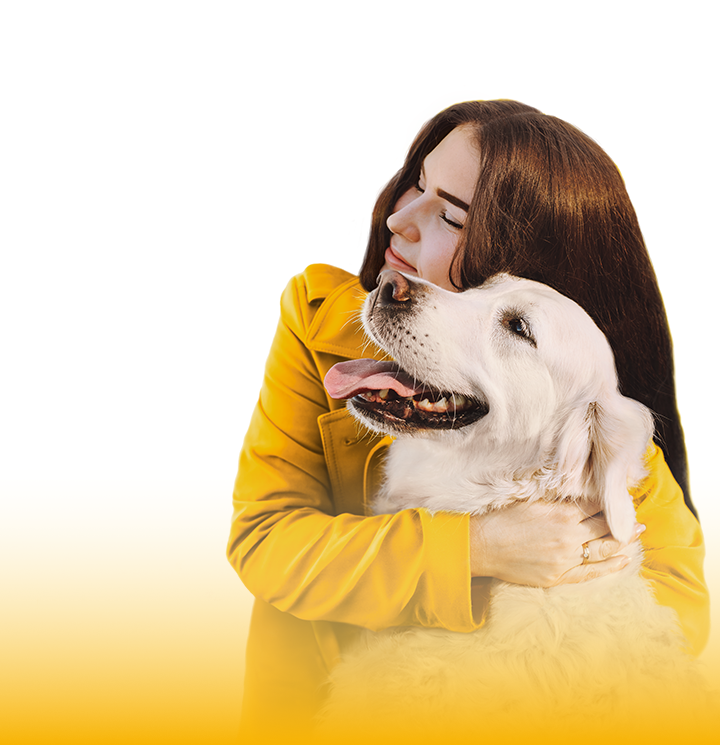
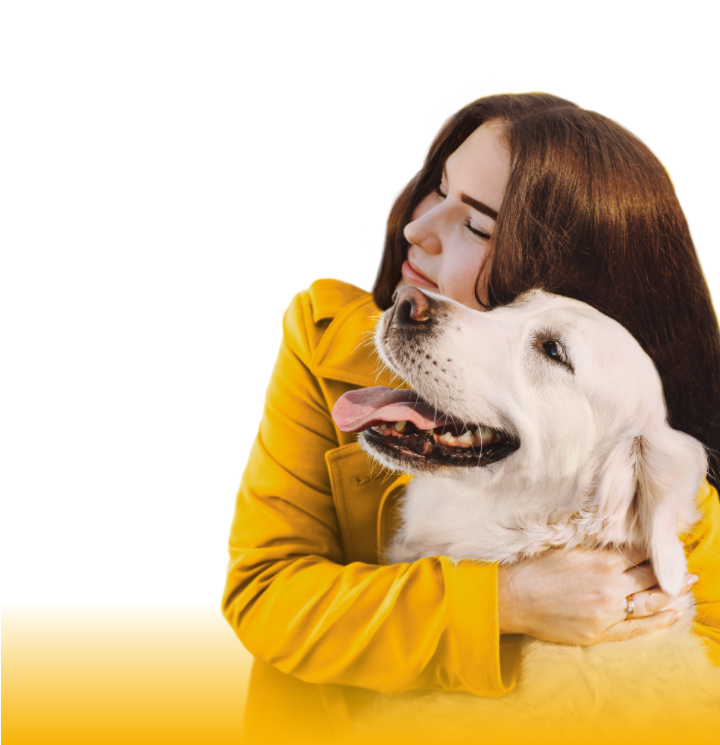
main page fixed

diff --git a/src/entity/main-page/components/find-your-pet/style.module.scss b/src/entity/main-page/components/find-your-pet/style.module.scss
@@ -4,16 +4,47 @@ $--products: url('../../../../shared/assets/images/products.png');
 $--pets: url('../../../../shared/assets/images/pets-circle.png');
 $--robot: url('../../../../shared/assets/images/robot.png');
 $--chevron-bg-white: url('../../../../shared/assets/images/chevron-bg-white.png');
+$--echo-7: url('../../../../shared/assets/images/echo/purple-echo-1.png');
 
 .echo_bg {
+  position: relative;
   padding: 50px 0px;
 
   background-image: var(--yellow-echo-1);
   background-repeat: no-repeat;
   background-position: right bottom;
-  background-size: 30%, 300px;
+  background-position: right bottom -91px;
+  background-size: 268px;
+  @media (max-width: 1240px){
+    background-position: right bottom 110px;
+    background-size: 175px;
+  }
   @media (max-width: 620px) {
     padding-bottom: 20px;
+    background-position: right bottom 32px;
+    background-size: 135px;
+  }
+  @media (max-width: 520px){
+    background-position: right bottom 96px;
+    background-size: 119px;
+  }
+
+  &::after{
+    content: '';
+    position: absolute;
+    left: 0;
+    bottom: -140px;
+    top: 0;
+    background-image: $--echo-7;
+    background-size: cover;
+    background-repeat: no-repeat;
+
+    margin: auto;
+    width: 165px;
+    height: 420px;
+    @media (max-width: 996px){
+        content: none;
+    }
   }
 }
 
@@ -31,7 +62,7 @@ $--chevron-bg-white: url('../../../../shared/assets/images/chevron-bg-white.png'
 }
 
 .main_body {
-  padding: 40px 50px;
+  padding: 82px 95px 44px;
   border-radius: 40px;
 
   width: fit-content;
@@ -46,7 +77,9 @@ $--chevron-bg-white: url('../../../../shared/assets/images/chevron-bg-white.png'
   flex-direction: column;
   align-items: center;
   justify-content: space-between;
-
+  @media (max-width: 1240px){
+    padding: 72px 65px 44px;
+  }
   @media (max-width: 600px) {
     padding-top: 50px;
     padding: 30px;
@@ -61,11 +94,11 @@ $--chevron-bg-white: url('../../../../shared/assets/images/chevron-bg-white.png'
   width: 100%;
 
   position: absolute;
-  top: -160px;
+  top: -135px;
 
   img {
-    height: 200px;
-    width: 200px;
+    height: 207px;
+    width: 207px;
   }
 
   @media (max-width: 1300px) {
@@ -98,7 +131,7 @@ $--chevron-bg-white: url('../../../../shared/assets/images/chevron-bg-white.png'
   line-height: var(--line-height-52-8);
 
   z-index: 2;
-  margin: 0px;
+  margin: 0px 0 9px;
 }
 
 .main_text p {
@@ -205,7 +238,7 @@ $--chevron-bg-white: url('../../../../shared/assets/images/chevron-bg-white.png'
 .about_block > div {
   display: flex;
   flex-direction: column;
-  justify-content: space-between;
+
   align-items: center;
 
   width: 45%;
@@ -213,8 +246,8 @@ $--chevron-bg-white: url('../../../../shared/assets/images/chevron-bg-white.png'
 
   position: relative;
 
-  padding: 50px 36px 10px 36px;
-
+  padding: 64px 36px 10px 36px;
+  height: 368px;
   margin-left: 10px;
   margin-right: 10px;
 
@@ -226,6 +259,9 @@ $--chevron-bg-white: url('../../../../shared/assets/images/chevron-bg-white.png'
   @media (max-width: 1000px) {
     padding: 10px 12px 10px 12px;
   }
+  @media (max-width: 768px){
+    min-height: 252px;
+  }
 }
 
 .about_block span {
@@ -235,7 +271,7 @@ $--chevron-bg-white: url('../../../../shared/assets/images/chevron-bg-white.png'
   line-height: var(--line-height-28-6);
 
   text-align: center;
-
+ max-width: 285px;
   color: $--gray-color;
 }
 
@@ -273,10 +309,17 @@ $--chevron-bg-white: url('../../../../shared/assets/images/chevron-bg-white.png'
   font-weight: 800;
   line-height: var(--line-height-34-2);
 
-  margin: 10px 0px;
+  margin: 0 0px 10px;
   text-transform: uppercase;
 
   color: var(--purple-color);
+
+  & + div{
+    margin-bottom: 21px;
+    & + div{
+      margin-bottom: 16px;
+    }
+  }
 }
 
 .ruble {
@@ -291,9 +334,6 @@ $--chevron-bg-white: url('../../../../shared/assets/images/chevron-bg-white.png'
 
   height: 70px;
   width: 70px;
-
-  margin: 10px 0px;
-
   background-color: var(--orange-color);
 
   @media (max-width: 600px) {
@@ -316,11 +356,12 @@ $--chevron-bg-white: url('../../../../shared/assets/images/chevron-bg-white.png'
   display: flex;
   align-items: center;
   justify-content: center;
+  margin-bottom: 23px;
 }
 
 .sber img {
-  height: 50px;
-  width: 170px;
+  height: 55px;
+  width: 192px;
 
   @media (max-width: 600px) {
     width: 103px;

diff --git a/src/entity/main-page/components/main/style.module.scss b/src/entity/main-page/components/main/style.module.scss
@@ -22,7 +22,7 @@
   display: grid;
   justify-items: center;
   justify-content: center;
-  align-items: end;
+  align-items: center;
 
   position: relative;
 
@@ -30,7 +30,7 @@
 
   box-sizing: border-box;
   grid-template-columns: 40% 20% 40%;
-
+  margin-top: -4%;
   @media (max-width: 1024px) {
     top: 0px;
   }
@@ -68,21 +68,42 @@
 
 .images_background {
   width: 100%;
-  min-height: 300px;
-
-  margin-top: 50px;
-
+  min-height: 492px;
+  margin-top: -35px;
   position: relative;
   z-index: 0;
-
   display: flex;
   justify-content: space-between;
   align-items: flex-end;
+  @media (max-width: 1380px){
+    margin-top: 45px;
+  }
+  @media (max-width: 1024px){
+    margin-top: -35px;
+  }
+  @media (max-width: 768px) {
+    margin-top: 0;
+    min-height: 55vh;
+    margin-bottom: 32px;
+  }
 
   img {
-    width: 50%;
-    margin-top: -150px;
+
+    margin-top: -175px;
     padding-top: 30px;
+    object-fit: cover;
+    overflow: hidden;
+    @media (max-width: 520px) {
+      width: 50%;
+      height: 274px;
+      object-position: left;
+    }
+
+    &:last-child {
+      @media (max-width: 520px) {
+        object-position: right;
+      }
+    }
   }
 }
 
@@ -92,18 +113,23 @@
   position: absolute;
 
   width: 100%;
-  height: 100%;
+  height: 90%;
 
   background-image: var(--main-heart-with-text);
   background-repeat: no-repeat;
   background-position: center top;
-  background-size: 40%;
+  background-size: 518px;
 
+  @media (max-width: 1240px){
+    height: 100%;
+    background-size: 40%;
+  }
   @media (max-width: 1000px) {
     background-size: 50%;
   }
-  @media (max-width: 500px) {
-    background-size: 70%;
+  @media (max-width: 520px) {
+    background-size: 85%;
+
   }
 }
 
@@ -125,6 +151,9 @@
   background-color: #fff;
   @media (max-width: 768px) {
     padding: 9px 13px;
+  }
+  @media (max-width: 1300px) {
+    margin-bottom: 30px;
   }
 }
 
@@ -174,6 +203,10 @@
   line-height: var(--line-height-28-6);
 
   color: var(--white-color);
+
+  @media (max-width: 1300px) {
+    margin-bottom: 23px;
+  }
 }
 
 .learn_more {
@@ -190,6 +223,9 @@
   margin-bottom: 10px;
 
   position: relative;
+  @media (min-width: 1301px){
+    align-self: end;
+  }
 }
 
 .learn_more::after {
@@ -197,14 +233,13 @@
   font-size: var(--font-size-32);
   font-weight: 700;
   line-height: var(--line-height-19-8);
-
   color: var(--white-color);
-
   position: absolute;
-
   height: 9.5px;
-  width: 100%;
-
+  width: 19px;
+  left: 0;
+  right: 0;
+  margin: auto;
   bottom: 20px;
-  text-align: center;
+
 }
